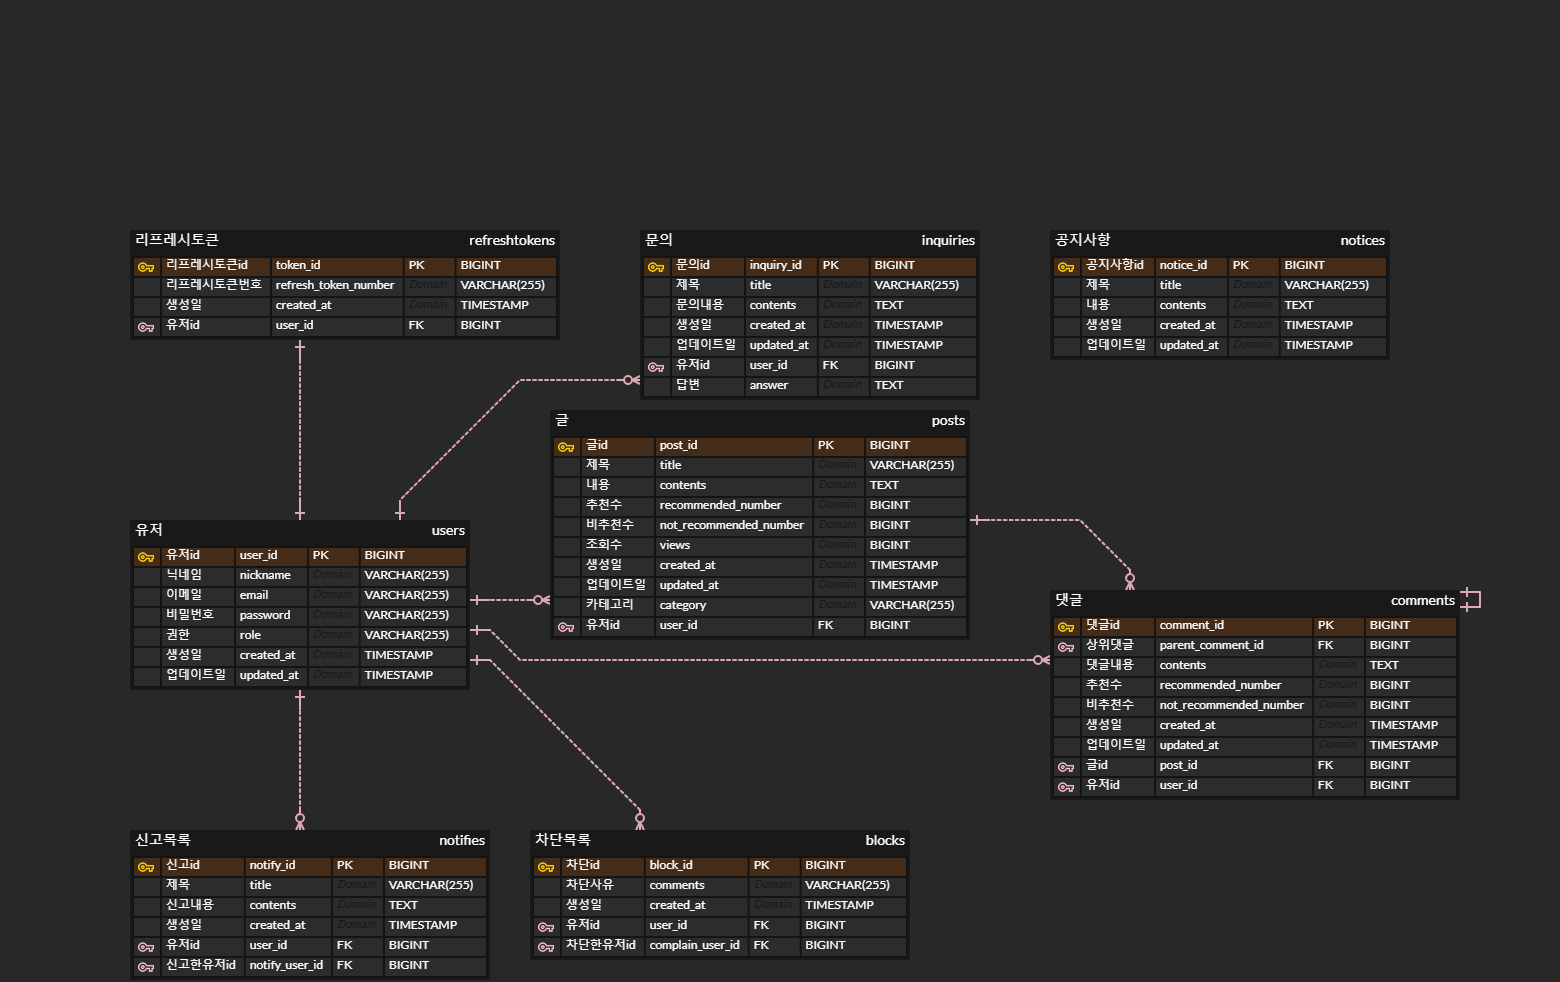
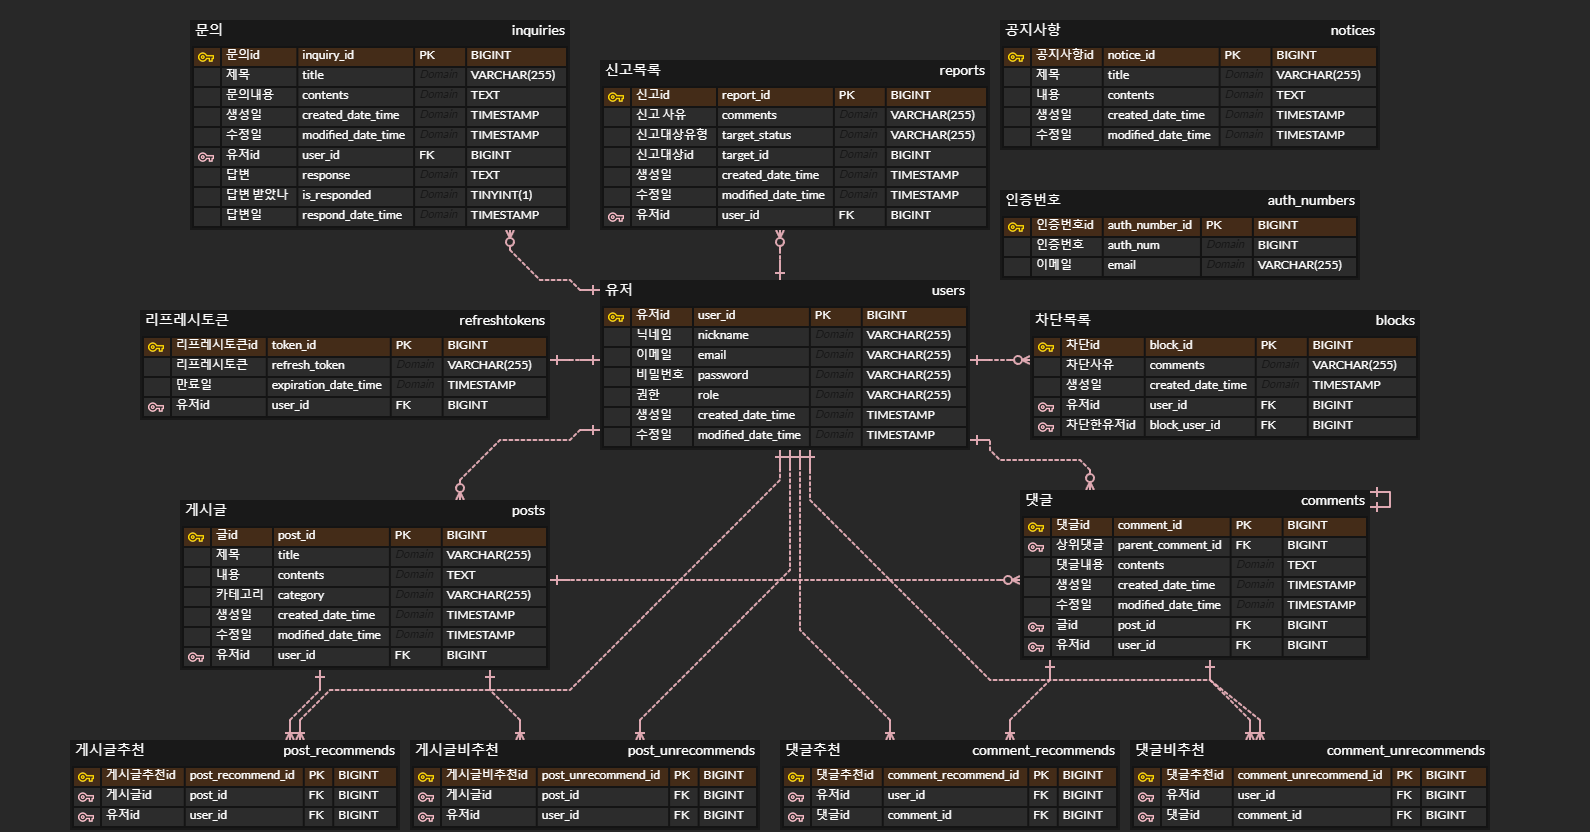
rename: change entity's column name and ERD

diff --git a/src/test/java/com/example/HardBoard/domain/refreshToken/RefreshTokenRepositoryTest.java b/src/test/java/com/example/HardBoard/domain/refreshToken/RefreshTokenRepositoryTest.java
@@ -6,7 +6,6 @@ import com.example.HardBoard.domain.user.User;
 import com.example.HardBoard.domain.user.UserRepository;
 import org.junit.jupiter.api.DisplayName;
 import org.junit.jupiter.api.Test;
-import org.mockito.ArgumentMatchers;
 import org.springframework.beans.factory.annotation.Autowired;
 import org.springframework.boot.test.context.SpringBootTest;
 import org.springframework.transaction.annotation.Transactional;
@@ -16,7 +15,6 @@ import java.util.Optional;
 import java.util.UUID;
 
 import static org.assertj.core.api.Assertions.*;
-import static org.mockito.ArgumentMatchers.*;
 
 @SpringBootTest
 @Transactional
@@ -41,7 +39,7 @@ class RefreshTokenRepositoryTest {
         RefreshToken refreshToken = RefreshToken.builder()
                 .user(user)
                 .refreshToken(tokenNum)
-                .expirationDate(dateTime)
+                .expirationDateTime(dateTime)
                 .build();
         refreshTokenRepository.save(refreshToken);
 
@@ -50,7 +48,7 @@ class RefreshTokenRepositoryTest {
 
         // then
         assertThat(token.isPresent()).isTrue();
-        assertThat(token.get().getExpirationDate()).isEqualTo(dateTime);
+        assertThat(token.get().getExpirationDateTime()).isEqualTo(dateTime);
         assertThat(token.get().getRefreshToken()).isEqualTo(tokenNum);
         assertThat(token.get().getUser()).isEqualTo(user);
     }
@@ -70,7 +68,7 @@ class RefreshTokenRepositoryTest {
         RefreshToken refreshToken = RefreshToken.builder()
                 .user(user)
                 .refreshToken(UUID.randomUUID().toString())
-                .expirationDate(LocalDateTime.now()
+                .expirationDateTime(LocalDateTime.now()
                         .plusSeconds(JwtProperties.REFRESH_TOKEN_EXPIRATION_TIME))
                 .build();
         refreshTokenRepository.save(refreshToken);
@@ -97,7 +95,7 @@ class RefreshTokenRepositoryTest {
         RefreshToken refreshToken = RefreshToken.builder()
                 .user(user)
                 .refreshToken(UUID.randomUUID().toString())
-                .expirationDate(LocalDateTime.now()
+                .expirationDateTime(LocalDateTime.now()
                         .plusSeconds(JwtProperties.REFRESH_TOKEN_EXPIRATION_TIME))
                 .build();
         refreshTokenRepository.save(refreshToken);
@@ -124,7 +122,7 @@ class RefreshTokenRepositoryTest {
                 RefreshToken.builder()
                         .refreshToken(UUID.randomUUID().toString())
                         .user(user)
-                        .expirationDate(LocalDateTime.now()
+                        .expirationDateTime(LocalDateTime.now()
                                 .plusSeconds(JwtProperties.REFRESH_TOKEN_EXPIRATION_TIME))
                         .build());
 
@@ -134,7 +132,7 @@ class RefreshTokenRepositoryTest {
 
         // then
         assertThat(findedToken.getRefreshToken()).isEqualTo(token.getRefreshToken());
-        assertThat(findedToken.getExpirationDate()).isEqualTo(token.getExpirationDate());
+        assertThat(findedToken.getExpirationDateTime()).isEqualTo(token.getExpirationDateTime());
         assertThat(findedToken.getUser()).isEqualTo(user);
     }
 
@@ -152,7 +150,7 @@ class RefreshTokenRepositoryTest {
                 RefreshToken.builder()
                         .refreshToken(UUID.randomUUID().toString())
                         .user(user)
-                        .expirationDate(LocalDateTime.now()
+                        .expirationDateTime(LocalDateTime.now()
                                 .plusSeconds(JwtProperties.REFRESH_TOKEN_EXPIRATION_TIME))
                         .build());
 

diff --git a/src/test/java/com/example/HardBoard/domain/refreshToken/RefreshTokenTest.java b/src/test/java/com/example/HardBoard/domain/refreshToken/RefreshTokenTest.java
@@ -18,12 +18,12 @@ class RefreshTokenTest {
         RefreshToken token = RefreshToken.builder()
                 .refreshToken(UUID.randomUUID().toString())
                 .user(User.builder().build())
-                .expirationDate(LocalDateTime.now())
+                .expirationDateTime(LocalDateTime.now())
                 .build();
         RefreshToken prevToken = RefreshToken.builder()
                 .refreshToken(token.getRefreshToken())
                 .user(token.getUser())
-                .expirationDate(token.getExpirationDate())
+                .expirationDateTime(token.getExpirationDateTime())
                 .build();
         LocalDateTime dateTime = LocalDateTime.now();
 
@@ -32,7 +32,7 @@ class RefreshTokenTest {
 
         // then
         assertThat(token.getRefreshToken()).isNotEqualTo(prevToken.getRefreshToken());
-        assertThat(token.getExpirationDate()).isEqualTo(dateTime.plusSeconds(JwtProperties.REFRESH_TOKEN_EXPIRATION_TIME));
+        assertThat(token.getExpirationDateTime()).isEqualTo(dateTime.plusSeconds(JwtProperties.REFRESH_TOKEN_EXPIRATION_TIME));
     }
 
     @Test
@@ -41,7 +41,7 @@ class RefreshTokenTest {
         // given
         RefreshToken token = RefreshToken.builder()
                 .refreshToken(UUID.randomUUID().toString())
-                .expirationDate(LocalDateTime.now())
+                .expirationDateTime(LocalDateTime.now())
                 .build();
         LocalDateTime curDateTime = LocalDateTime.now().minusSeconds(10L);
 
@@ -55,7 +55,7 @@ class RefreshTokenTest {
         // given
         RefreshToken token = RefreshToken.builder()
                 .refreshToken(UUID.randomUUID().toString())
-                .expirationDate(LocalDateTime.now())
+                .expirationDateTime(LocalDateTime.now())
                 .build();
         LocalDateTime curDateTime = LocalDateTime.now().plusSeconds(10L);
 

diff --git a/src/main/java/com/example/HardBoard/domain/refreshToken/RefreshToken.java b/src/main/java/com/example/HardBoard/domain/refreshToken/RefreshToken.java
@@ -25,29 +25,29 @@ public class RefreshToken {
     @Column(name = "refresh_token", nullable = false, unique = true)
     private String refreshToken;
 
-    @Column(name = "expiration_date", nullable = false)
-    private LocalDateTime expirationDate;
+    @Column(name = "expiration_date_time", nullable = false)
+    private LocalDateTime expirationDateTime;
 
     @Builder
-    private RefreshToken(User user, String refreshToken, LocalDateTime expirationDate) {
+    private RefreshToken(User user, String refreshToken, LocalDateTime expirationDateTime) {
         this.user = user;
         this.refreshToken = refreshToken;
-        this.expirationDate = expirationDate;
+        this.expirationDateTime = expirationDateTime;
     }
 
     public static RefreshToken create(User user, LocalDateTime dateTime){
         return RefreshToken.builder()
                 .user(user)
                 .refreshToken(UUID.randomUUID().toString())
-                .expirationDate(dateTime
+                .expirationDateTime(dateTime
                         .plusSeconds(JwtProperties.REFRESH_TOKEN_EXPIRATION_TIME))
                 .build();
     }
 
     public void refreshTokenRotation(LocalDateTime dateTime){
         this.refreshToken = UUID.randomUUID().toString();
-        this.expirationDate = dateTime.plusSeconds(JwtProperties.REFRESH_TOKEN_EXPIRATION_TIME);
+        this.expirationDateTime = dateTime.plusSeconds(JwtProperties.REFRESH_TOKEN_EXPIRATION_TIME);
     }
 
-    public boolean isExpired(LocalDateTime dateTime){ return this.expirationDate.isBefore(dateTime); }
+    public boolean isExpired(LocalDateTime dateTime){ return this.expirationDateTime.isBefore(dateTime); }
 }

diff --git a/src/test/java/com/example/HardBoard/api/service/auth/AuthValidationServiceTest.java b/src/test/java/com/example/HardBoard/api/service/auth/AuthValidationServiceTest.java
@@ -97,7 +97,7 @@ class AuthValidationServiceTest {
         String token = refreshTokenRepository.save(RefreshToken.builder()
                 .user(user)
                 .refreshToken(UUID.randomUUID().toString())
-                .expirationDate(LocalDateTime.now().plusSeconds(JwtProperties.REFRESH_TOKEN_EXPIRATION_TIME - 1L))
+                .expirationDateTime(LocalDateTime.now().plusSeconds(JwtProperties.REFRESH_TOKEN_EXPIRATION_TIME - 1L))
                 .build()).getRefreshToken();
 
         // when // then
@@ -122,7 +122,7 @@ class AuthValidationServiceTest {
         String token = refreshTokenRepository.save(RefreshToken.builder()
                 .user(user)
                 .refreshToken(UUID.randomUUID().toString())
-                .expirationDate(LocalDateTime.now().plusSeconds(JwtProperties.REFRESH_TOKEN_EXPIRATION_TIME - 1L))
+                .expirationDateTime(LocalDateTime.now().plusSeconds(JwtProperties.REFRESH_TOKEN_EXPIRATION_TIME - 1L))
                 .build()).getRefreshToken() + "haha";
 
         // when // then
@@ -149,7 +149,7 @@ class AuthValidationServiceTest {
         String token = refreshTokenRepository.save(RefreshToken.builder()
                 .user(user)
                 .refreshToken(UUID.randomUUID().toString())
-                .expirationDate(LocalDateTime.now().minusSeconds(JwtProperties.REFRESH_TOKEN_EXPIRATION_TIME))
+                .expirationDateTime(LocalDateTime.now().minusSeconds(JwtProperties.REFRESH_TOKEN_EXPIRATION_TIME))
                 .build()).getRefreshToken();
 
         // when // then

diff --git a/src/test/java/com/example/HardBoard/api/service/token/TokenServiceTest.java b/src/test/java/com/example/HardBoard/api/service/token/TokenServiceTest.java
@@ -113,7 +113,7 @@ class TokenServiceTest {
                 RefreshToken.builder()
                         .refreshToken(refreshTokenName)
                         .user(user)
-                        .expirationDate(LocalDateTime.now().plusSeconds(JwtProperties.REFRESH_TOKEN_EXPIRATION_TIME))
+                        .expirationDateTime(LocalDateTime.now().plusSeconds(JwtProperties.REFRESH_TOKEN_EXPIRATION_TIME))
                         .build()).getRefreshToken();
 
         Long currentTimeMillis = System.currentTimeMillis();
@@ -161,7 +161,7 @@ class TokenServiceTest {
                 RefreshToken.builder()
                         .refreshToken(refreshTokenName)
                         .user(user)
-                        .expirationDate(LocalDateTime.now().minusSeconds(2L))
+                        .expirationDateTime(LocalDateTime.now().minusSeconds(2L))
                         .build()).getRefreshToken();
 
         // when // then

diff --git a/src/main/java/com/example/HardBoard/api/service/report/ReportService.java b/src/main/java/com/example/HardBoard/api/service/report/ReportService.java
@@ -38,6 +38,7 @@ public class ReportService {
         );
     }
 
+    // TODO 두 validate 메서드 동시에 처리
     public void validateTarget(TargetStatus status, Long targetId) {
         if(status == TargetStatus.POST && !postRepository.existsById(targetId))
             throw new IllegalArgumentException("Invalid postId");
@@ -55,7 +56,7 @@ public class ReportService {
         reportRepository.deleteById(reportId);
     }
 
-    public List<ReportResponse> getBlockList(Long userId, int page) {
+    public List<ReportResponse> getBlockList(Long userId, int page) { // TODO BlockService에서 처리
         PageRequest pageRequest = PageRequest.of(page, 20,
                 Sort.by(Sort.Direction.DESC, "createdDateTime"));
         return reportRepository.findByUserId(userId, pageRequest)

diff --git a/src/main/java/com/example/HardBoard/domain/BaseEntity.java b/src/main/java/com/example/HardBoard/domain/BaseEntity.java
@@ -5,6 +5,7 @@ import org.springframework.data.annotation.CreatedDate;
 import org.springframework.data.annotation.LastModifiedDate;
 import org.springframework.data.jpa.domain.support.AuditingEntityListener;
 
+import javax.persistence.Column;
 import javax.persistence.EntityListeners;
 import javax.persistence.MappedSuperclass;
 import java.time.LocalDateTime;
@@ -14,8 +15,10 @@ import java.time.LocalDateTime;
 @EntityListeners(AuditingEntityListener.class)
 public abstract class BaseEntity {
     @CreatedDate
+    @Column(name = "created_date_time")
     protected LocalDateTime createdDateTime;
 
     @LastModifiedDate
+    @Column(name = "modified_date_time")
     protected LocalDateTime modifiedDateTime;
 }

diff --git a/src/test/java/com/example/HardBoard/acceptance/publicApi/PublicPostAcceptanceTest.java b/src/test/java/com/example/HardBoard/acceptance/publicApi/PublicPostAcceptanceTest.java
@@ -74,7 +74,7 @@ public class PublicPostAcceptanceTest {
     Long userId;
     String accessToken;
 
-    @BeforeEach // TODO BeforeAll로 바꿔서 최적화
+    @BeforeEach
     void setAccessToken(){
         user = userRepository.save(
                 User.builder()
@@ -91,8 +91,6 @@ public class PublicPostAcceptanceTest {
                         .withClaim("email", user.getEmail())
                         .sign(Algorithm.HMAC512(JwtProperties.SECRET));
     }
-
-    // TODO @BeforeAll로 미리 100개 정도의 post와 comment를 만들어 놓고, 그걸로 테스트 하자
 
     @Test
     @DisplayName("postId에 해당하는 post와 commentList를 받는다")

diff --git a/src/main/java/com/example/HardBoard/domain/authNumber/AuthNumber.java b/src/main/java/com/example/HardBoard/domain/authNumber/AuthNumber.java
@@ -9,16 +9,17 @@ import javax.persistence.*;
 
 @Entity
 @Getter
-@Table(name = "email_numbers")
+@Table(name = "auth_numbers")
 @NoArgsConstructor(access = AccessLevel.PROTECTED)
 public class AuthNumber {
     @Id @GeneratedValue(strategy = GenerationType.IDENTITY)
-    @Column(name = "email_number_id")
+    @Column(name = "auth_number_id")
     private Long id;
 
+    @Column(unique = true, nullable = false)
     private String email;
 
-    @Column(name = "auth_num")
+    @Column(name = "auth_num", nullable = false)
     private String authNum;
 
     @Builder

diff --git a/src/test/java/com/example/HardBoard/api/service/auth/AuthServiceTest.java b/src/test/java/com/example/HardBoard/api/service/auth/AuthServiceTest.java
@@ -107,7 +107,7 @@ class AuthServiceTest {
         refreshTokenRepository.save(RefreshToken.builder()
                 .user(user)
                 .refreshToken(UUID.randomUUID().toString())
-                .expirationDate(LocalDateTime.now().plusSeconds(JwtProperties.REFRESH_TOKEN_EXPIRATION_TIME))
+                .expirationDateTime(LocalDateTime.now().plusSeconds(JwtProperties.REFRESH_TOKEN_EXPIRATION_TIME))
                 .build());
 
         Long userId = user.getId();

diff --git a/src/main/java/com/example/HardBoard/domain/inquiry/Inquiry.java b/src/main/java/com/example/HardBoard/domain/inquiry/Inquiry.java
@@ -26,10 +26,12 @@ public class Inquiry extends BaseEntity {
     @JoinColumn(name = "user_id")
     private User user;
 
+    @Column(name = "is_responded")
     private Boolean isResponded;
 
-    private String response; // TODO 처음에는 null로 관리하지 말고 디폴트 값을 넣어줘야 한다
+    private String response;
 
+    @Column(name = "respond_date_time")
     private LocalDateTime respondDateTime;
 
     @Builder

diff --git a/src/main/java/com/example/HardBoard/domain/post/Post.java b/src/main/java/com/example/HardBoard/domain/post/Post.java
@@ -23,12 +23,6 @@ public class Post extends BaseEntity {
     @Enumerated(EnumType.STRING)
     private Category category;
 
-    // TODO 추천과 비추천을 통계 쿼리로 계속 유지시킬 수 있나?
-
-/*    private Long recommends;
-
-    private Long unrecommends;*/
-
     @ManyToOne(fetch = FetchType.LAZY)
     @JoinColumn(name = "user_id")
     private User user;
